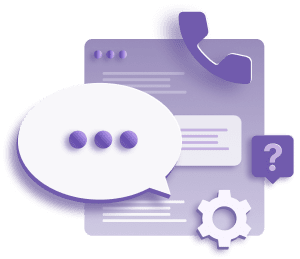
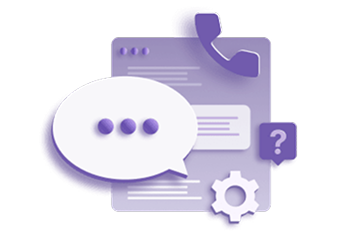
update new home page images

diff --git a/pages/home-one.js b/pages/home-one.js
@@ -8,6 +8,7 @@ import 'swiper/css/navigation';
 import 'swiper/css/thumbs';
 import { FreeMode, Navigation, Thumbs, Mousewheel, Autoplay } from 'swiper';
 import FooterNew from '../components/FooterNew';
+import Image from 'next/image';
 
 
 const HomeOne = () => {
@@ -35,13 +36,13 @@ const HomeOne = () => {
                                 </div>
                                 <div className='home-baner-head'>
                                     <h1>Microsoft Experts for UK Businesses</h1>
-                                    <h2>When results count, <br/>Dynamics Square delivers! </h2>
+                                    <h2>When results count, <br />Dynamics Square delivers! </h2>
                                     <p>By implementing Microsoft’s AI-powered solutions, we empower businesses to streamline operations, boost efficiency, and scale with confidence. Ready to take the next step?</p>
-                                    <a href="#exampleModal" data-bs-toggle="modal" className='btn btn-home'><img src='/img/buttion-ic-1.png' alt='icons' /> Make It Happen! <span><i className="bi bi-arrow-right-circle"></i></span></a>
+                                    <a href="#exampleModal" data-bs-toggle="modal" className='btn btn-home'><img src='/img/buttion-ic-1.png' width={26} height={26} alt='icons' /> Make It Happen! <span><i className="bi bi-arrow-right-circle"></i></span></a>
 
                                 </div>
                                 <div className='specialtitle'>
-                                    <p>and see the magic <img src="/img/mask-group-aa.png" alt="mask-group-aa" /></p>
+                                    <p>and see the magic <img src="/img/mask-group-aa.png" width={87} height={87} alt="mask-group-aa" /></p>
                                 </div>
                             </div>
                         </div>
@@ -84,27 +85,27 @@ const HomeOne = () => {
 
                                     <SwiperSlide>
                                         <div className='slider0-img'>
-                                            <img src="/img/cad-i-1.png" alt="cad-i-1.png" />
+                                            <Image src="/img/cad-i-1.png" alt="cad-i-1.png" width={467} height={230} />
                                         </div>
                                     </SwiperSlide>
                                     <SwiperSlide>
                                         <div className='slider0-img'>
-                                            <img src="/img/cad-i-2.png" alt="cad-i-1.png" />
+                                            <Image src="/img/cad-i-2.png" alt="cad-i-1.png" width={467} height={230} />
                                         </div>
                                     </SwiperSlide>
                                     <SwiperSlide>
                                         <div className='slider0-img'>
-                                            <img src="/img/cad-i-3.png" alt="cad-i-1.png" />
+                                        <Image src="/img/cad-i-3.png" alt="cad-i-1.png" width={467} height={230} />
                                         </div>
                                     </SwiperSlide>
                                     <SwiperSlide>
                                         <div className='slider0-img'>
-                                            <img src="/img/cad-i-4.png" alt="cad-i-1.png" />
+                                        <Image src="/img/cad-i-4.png" alt="cad-i-1.png" width={467} height={230} />
                                         </div>
                                     </SwiperSlide>
                                     <SwiperSlide>
                                         <div className='slider0-img'>
-                                            <img src="/img/cad-i-5.png" alt="cad-i-1.png" />
+                                        <Image src="/img/cad-i-5.png" alt="cad-i-1.png" width={467} height={230} />
                                         </div>
                                     </SwiperSlide>
 
@@ -119,19 +120,19 @@ const HomeOne = () => {
                                     <p>Trusted by 500 Businesses</p>
                                     <ul>
                                         <li>
-                                            <img src="/img/cli-1.png" alt="cli-1.png" />
+                                            <Image src="/img/cli-1.png" alt="cli-1.png" width={223} height={78} />
                                         </li>
                                         <li>
-                                            <img src="/img/cli-2.png" alt="cli-2.png" />
+                                            <Image src="/img/cli-2.png" alt="cli-2.png" width={174} height={78} />
                                         </li>
                                         <li>
-                                            <img src="/img/cli-3.png" alt="cli-3.png" />
+                                            <Image src="/img/cli-3.png" alt="cli-3.png" width={230} height={78} />
                                         </li>
                                         <li>
-                                            <img src="/img/cli-4.png" alt="cli-4.png" />
+                                            <Image src="/img/cli-4.png" alt="cli-4.png" width={241} height={78} />
                                         </li>
                                         <li>
-                                            <img src="/img/cli-5.png" alt="cli-5.png" />
+                                            <Image src="/img/cli-5.png" alt="cli-5.png" width={122} height={78} />
                                         </li>
                                     </ul>
                                 </div>
@@ -184,7 +185,7 @@ const HomeOne = () => {
                             <div className='col-lg-3 col-md-3 col-sm-6 d-flex'>
                                 <div className='card-666'>
                                     <div className='crad-img'>
-                                        <img src="/img/case-imgs-2.jpg" alt="case-imgs-1" />
+                                        <Image src="/img/case-imgs-2.jpg" alt="case-imgs-1" width={610} height={592} />
                                         <p>UK's top sexual wellness brand improved productivity by up to 68%</p>
                                     </div>
                                     <div className='card-666-anc'>
@@ -195,7 +196,7 @@ const HomeOne = () => {
                             <div className='col-lg-3 col-md-3 col-sm-6 d-flex'>
                                 <div className='card-666'>
                                     <div className='crad-img'>
-                                        <img src="/img/case-imgs-3.jpg" alt="case-imgs-2" />
+                                        <Image src="/img/case-imgs-3.jpg" alt="case-imgs-2" width={610} height={592} />
                                         <p>How car restoration and customization company has enhanced their ROI by 30%</p>
                                     </div>
                                     <div className='card-666-anc'>
@@ -206,7 +207,7 @@ const HomeOne = () => {
                             <div className='col-lg-3 col-md-3 col-sm-6 d-flex'>
                                 <div className='card-666'>
                                     <div className='crad-img'>
-                                        <img src="/img/case-imgs-1.jpg" alt="case-imgs-1" />
+                                        <Image src="/img/case-imgs-1.jpg" alt="case-imgs-1" width={610} height={592} />
                                         <p>UK's top defence apparel manufacturer boosted efficiency and accuracy by 50%</p>
                                     </div>
                                     <div className='card-666-anc'>
@@ -217,7 +218,7 @@ const HomeOne = () => {
                             <div className='col-lg-3 col-md-3 col-sm-6 d-flex'>
                                 <div className='card-666'>
                                     <div className='crad-img'>
-                                        <img src="/img/case-imgs-4.jpg" alt="case-imgs-4" />
+                                        <Image src="/img/case-imgs-4.jpg" alt="case-imgs-4" width={610} height={592} />
                                         <p>Leading manufacturer of orthopedic implants has gained 80% more visibility</p>
                                     </div>
                                     <div className='card-666-anc'>
@@ -248,7 +249,7 @@ const HomeOne = () => {
                             <div className='col-lg-3 col-md-3 col-sm-6 d-flex'>
                                 <div className='card-667'>
                                     <div className='card-top'>
-                                        <img src="/img/serve-ic-01.png" alt="serve-ic-01" />
+                                        <img src="/img/serve-ic-01.png" alt="serve-ic-01" width={40} height={40} />
                                         <h3>Consulting</h3>
                                         <p>Expert guidance to optimise your business processes.</p>
                                     </div>
@@ -258,7 +259,7 @@ const HomeOne = () => {
                             <div className='col-lg-3 col-md-3 col-sm-6 d-flex'>
                                 <div className='card-667'>
                                     <div className='card-top'>
-                                        <img src="/img/serve-ic-02.png" alt="serve-ic-02" />
+                                        <img src="/img/serve-ic-02.png" alt="serve-ic-02"  width={40} height={40} />
                                         <h3>Implementation</h3>
                                         <p>Expert execution for a smooth transition and business continuity.</p>
                                     </div>
@@ -268,7 +269,7 @@ const HomeOne = () => {
                             <div className='col-lg-3 col-md-3 col-sm-6 d-flex'>
                                 <div className='card-667'>
                                     <div className='card-top'>
-                                        <img src="/img/serve-ic-03.png" alt="serve-ic-03" />
+                                        <img src="/img/serve-ic-03.png" alt="serve-ic-03"  width={40} height={40} />
                                         <h3>Upgrade</h3>
                                         <p>Regular upgrades to maintain system competitiveness.</p>
                                     </div>
@@ -278,7 +279,7 @@ const HomeOne = () => {
                             <div className='col-lg-3 col-md-3 col-sm-6 d-flex'>
                                 <div className='card-667'>
                                     <div className='card-top'>
-                                        <img src="/img/serve-ic-04.png" alt="serve-ic-04" />
+                                        <img src="/img/serve-ic-04.png" alt="serve-ic-04"  width={40} height={40} />
                                         <h3>Ongoing Support</h3>
                                         <p>Proactive solutions to keep your systems running smoothly.</p>
                                     </div>
@@ -307,7 +308,7 @@ const HomeOne = () => {
                             <div className='col-lg-4 col-md-4 col-sm-6 d-flex sliding-col'>
                                 <div className='card-668'>
                                     <a href="#">
-                                        <img src="/img/ind-i-01.jpg" alt="serve-ic-01" />
+                                        <Image src="/img/ind-i-01.jpg" alt="serve-ic-01" width={818} height={792} />
                                         <h3>Education</h3>
                                     </a>
                                 </div>
@@ -315,7 +316,7 @@ const HomeOne = () => {
                             <div className='col-lg-4 col-md-4 col-sm-6 d-flex sliding-col'>
                                 <div className='card-668'>
                                     <a href="#">
-                                        <img src="/img/ind-i-02.jpg" alt="serve-ic-01" />
+                                        <Image src="/img/ind-i-02.jpg" alt="serve-ic-01" width={818} height={792} />
                                         <h3>Manufacturing</h3>
                                     </a>
                                 </div>
@@ -323,7 +324,7 @@ const HomeOne = () => {
                             <div className='col-lg-4 col-md-4 col-sm-6 d-flex sliding-col'>
                                 <div className='card-668'>
                                     <a href="#">
-                                        <img src="/img/ind-i-03.jpg" alt="serve-ic-01" />
+                                        <Image src="/img/ind-i-03.jpg" alt="serve-ic-01" width={818} height={792} />
                                         <h3>Food & Beverages</h3>
                                     </a>
                                 </div>
@@ -341,7 +342,7 @@ const HomeOne = () => {
                         <div className='row justify-content-center'>
                             <div className='col-md-9'>
                                 <div className='new-title-heading title-heading-center'>
-                                    <h2 style={{marginBottom:'0px'}}>How We Works? It’s Simple</h2>
+                                    <h2 style={{ marginBottom: '0px' }}>How We Works? It’s Simple</h2>
                                 </div>
                             </div>
                         </div>
@@ -349,7 +350,7 @@ const HomeOne = () => {
                         <div className='row g-4 m--t-40'>
                             <div className='col-lg-6 col-md-6 col-sm-6 d-flex'>
                                 <div className='card-669'>
-                                    <img src="/img/card-669-01.png" alt="card-669-01" />
+                                    <Image src="/img/card-669-01.png" alt="card-669-01" width={340} height={235} />
                                     <h3>Understand Your Needs</h3>
                                     <p>We’ll start with a deep dive into your business challenges and objectives.</p>
                                 </div>
@@ -357,7 +358,7 @@ const HomeOne = () => {
 
                             <div className='col-lg-6 col-md-6 col-sm-6 d-flex'>
                                 <div className='card-669 card-669-liner'>
-                                    <img src="/img/card-669-02.png" alt="card-669-01" />
+                                    <Image src="/img/card-669-02.png" alt="card-669-01" width={340} height={235} />
                                     <h3>Craft the Solution</h3>
                                     <p>Using Microsoft’s suite of tools, we design a customized roadmap for your transformation.</p>
                                 </div>
@@ -365,7 +366,7 @@ const HomeOne = () => {
 
                             <div className='col-lg-6 col-md-6 col-sm-6 d-flex'>
                                 <div className='card-669 card-669-liner'>
-                                    <img src="/img/card-669-03.png" alt="card-669-01" />
+                                    <Image src="/img/card-669-03.png" alt="card-669-01" width={340} height={235} />
                                     <h3>Seamless Deployment</h3>
                                     <p>Our team handles everything from integration to training, so you can hit the ground running.</p>
                                 </div>
@@ -373,7 +374,7 @@ const HomeOne = () => {
 
                             <div className='col-lg-6 col-md-6 col-sm-6 d-flex'>
                                 <div className='card-669 '>
-                                    <img src="/img/card-669-04.png" alt="card-669-01" />
+                                    <img src="/img/card-669-04.png" alt="card-669-01" width={340} height={235} />
                                     <h3>Support that Scales</h3>
                                     <p>With ongoing monitoring and optimization, we ensure your solutions evolve as your business grows.</p>
                                 </div>
@@ -387,7 +388,7 @@ const HomeOne = () => {
                         <div className='row justify-content-center'>
                             <div className='col-md-9'>
                                 <div className='new-title-heading title-heading-center'>
-                                    <h2 style={{marginBottom:'0px'}}>What our Customer says</h2>
+                                    <h2 style={{ marginBottom: '0px' }}>What our Customer says</h2>
                                 </div>
                             </div>
                         </div>
@@ -395,7 +396,7 @@ const HomeOne = () => {
                         <div className='row g-3 m--t-40'>
                             <div className='col-lg-4 col-md-4 col-sm-6 d-flex'>
                                 <div className='card-669 card-669-p card-669-liner'>
-                                    <img src="/img/testimonials/Terence-Turner.png" alt="card-669-01" />
+                                    <img src="/img/testimonials/Terence-Turner.png" alt="card-669-01" width={126} height={126} />
                                     <h3>Terence Turner</h3>
                                     <span>General Manager</span>
                                     <p>Dynamics Square Team provided us a top-level service. Well trained staff as well as excellent support when needed. Very professional and trustworthy.</p>
@@ -403,7 +404,7 @@ const HomeOne = () => {
                             </div>
                             <div className='col-lg-4 col-md-4 col-sm-6 d-flex'>
                                 <div className='card-669 card-669-p'>
-                                    <img src="/img/testimonials/Jonathan-W.png" alt="card-669-01" />
+                                    <img src="/img/testimonials/Jonathan-W.png" alt="card-669-01" width={126} height={126} />
                                     <h3>Jonathan W</h3>
                                     <span>Technical Director</span>
                                     <p>We have worked with Dynamics Square since 2019. Our working relationship has built during this period, and we have found them to be very professional.</p>
@@ -411,7 +412,7 @@ const HomeOne = () => {
                             </div>
                             <div className='col-lg-4 col-md-4 col-sm-6 d-flex'>
                                 <div className='card-669 card-669-p card-669-liner'>
-                                    <img src="/img/avatar.png" alt="card-669-01" />
+                                    <img src="/img/avatar.png" alt="card-669-01" width={126} height={126} />
                                     <h3>Mark Shaxted</h3>
                                     <span>Operations Manager</span>
                                     <p>Dynamics Square has been a solid partner for 4 years, skillfully upgrading us from NAV2018 to Business Central. They offer great value and professionalism.</p>
@@ -437,7 +438,7 @@ const HomeOne = () => {
                             <div className='col-lg-3 col-md-3 col-sm-6 d-flex'>
                                 <div className='card-666 card-666-1'>
                                     <div className='crad-img'>
-                                        <img src="/img/res-tag-01.jpg" alt="res-tag-01" />
+                                        <Image src="/img/res-tag-01.jpg" alt="res-tag-01" width={610} height={610} />
                                         <span><a href="/products/dynamics-365-copilot/">Copilot</a></span>
                                         <p>Microsoft Copilot: The Catalyst for Transformation in Your Business - Download Now!</p>
                                     </div>
@@ -449,7 +450,7 @@ const HomeOne = () => {
                             <div className='col-lg-3 col-md-3 col-sm-6 d-flex'>
                                 <div className='card-666 card-666-1'>
                                     <div className='crad-img'>
-                                        <img src="/img/res-tag-02.jpg" alt="res-tag-01" />
+                                        <Image src="/img/res-tag-02.jpg" alt="res-tag-01" width={610} height={610} />
                                         <span><a href="/white-papers/">Whitepaper</a></span>
                                         <p>The Future of Finance Management</p>
                                     </div>
@@ -461,7 +462,7 @@ const HomeOne = () => {
                             <div className='col-lg-3 col-md-3 col-sm-6 d-flex'>
                                 <div className='card-666 card-666-1'>
                                     <div className='crad-img'>
-                                        <img src="/img/res-tag-03.jpg" alt="res-tag-01" />
+                                        <Image src="/img/res-tag-03.jpg" alt="res-tag-01" width={610} height={610} />
                                         <span><a href="/guides/">Ebook</a></span>
                                         <p>UK's top sexual wellness brand improved productivity by up to 68%</p>
                                     </div>
@@ -473,7 +474,7 @@ const HomeOne = () => {
                             <div className='col-lg-3 col-md-3 col-sm-6 d-flex'>
                                 <div className='card-666 card-666-1'>
                                     <div className='crad-img'>
-                                        <img src="/img/res-tag-04.jpg" alt="res-tag-01" />
+                                        <Image src="/img/res-tag-04.jpg" alt="res-tag-01" width={610} height={610} />
                                         <span><a href="/erp-implementation-cost-calculator/">Calculator</a></span>
                                         <p>UK's top sexual wellness brand improved productivity by up to 68%</p>
                                     </div>

diff --git a/styles/globals.css b/styles/globals.css
@@ -14528,7 +14528,8 @@ figure {
   font-size: 20px;
   color: #544a81;
   padding: 0.9rem 1rem;
-  transition:.4s ease
+  transition:.4s ease;
+  position:relative
 }
 .btn-home img{
   animation: fades 3s linear infinite;
@@ -14818,17 +14819,21 @@ display:none
   border-radius: 8px;
   max-height: 390px;
 }
-.card-668 a:hover::after{
-  content: "";
-  position: absolute;
-  top: 0;
-  left: 0;
-  width: 100%;
-  height: 100%;
-  background-image: linear-gradient(to bottom, rgba(0, 0, 0, 0) 44%, #130e2d), linear-gradient(to bottom, #f1f0f4, #f1f0f4);
-  opacity: 0.2;
-  transition: 0.4s all ease-out;
-}
+  /* .card-668::after{
+    content: "";
+    position: absolute;
+    top: 0;
+    left: 0;
+    bottom:0;
+    width: 100%;
+    height: 100%;
+    background-image: linear-gradient(to bottom, rgba(0, 0, 0, 0) 44%, #130e2d), linear-gradient(to bottom, #f1f0f4, #f1f0f4);
+    opacity: 0.2;
+    transition: 0.4s all ease-out;
+  } 
+  .card-668:hover::after{
+    opacity: 0;
+  } */
 .card-668 a{}
 .card-668 img{
   transition: 0.4s all ease-out;
@@ -14873,12 +14878,12 @@ display:none
 }
 .card-669 img{
   margin-bottom:15px;
-  height: 250px;
 }
 .card-669 h3{
   font-size: 24px;
   font-weight: 600;
   color: #443c68;
+  margin-bottom:15px;
 }
 .card-669 p{
   color: #666;
@@ -15051,6 +15056,37 @@ padding: 8px 0;
 .client-home-new-list ul::-webkit-scrollbar-thumb:hover {
   background: #3a3154; 
 }
+
+/* .btn-home:before,.btn-red:before {
+    z-index: 0;
+    content: "";
+    background: linear-gradient(133deg, #adfa4b 1.34%, #9872ea 1.35%, #4d72f5 76.16%, #fa11ff 105.35%);
+    filter: blur(32.5px);
+    background-size: 400%;
+    position: absolute;
+    top: -2px;
+    left: -2px;
+    z-index: -2;
+    width: 102%;
+    height: 102%;
+    border-radius: 24px;
+    animation: styles_moving-gradient 16s linear infinite;
+}
+@keyframes styles_moving-gradient{
+
+  0% {
+    background-position: 0 0;
+    opacity: .5;
+}
+50% {
+  background-position: 400% 0;
+  opacity: 1;
+}
+100% {
+  background-position: 0 0;
+  opacity: .5;
+}
+} */
 
 @media (max-width: 1440px) {
   .home-baner-head h2 {
